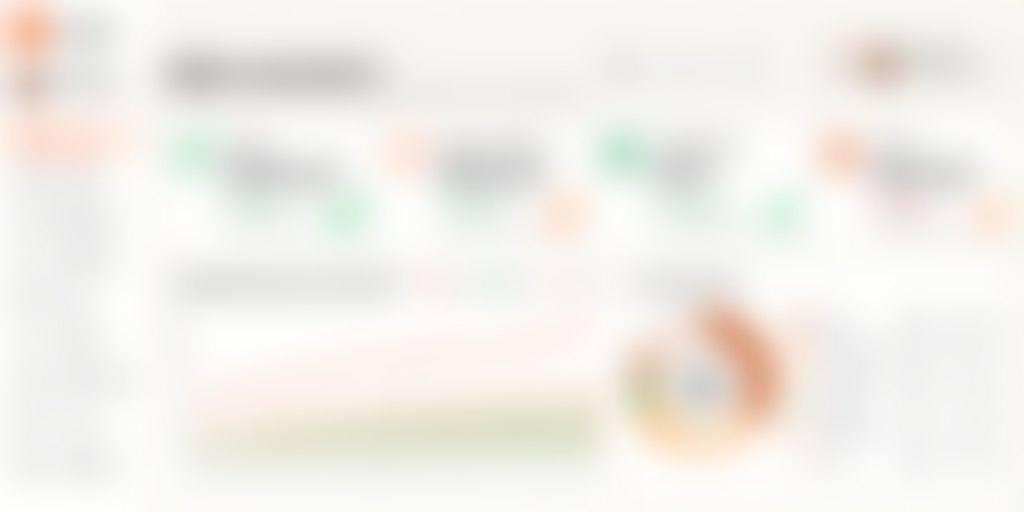
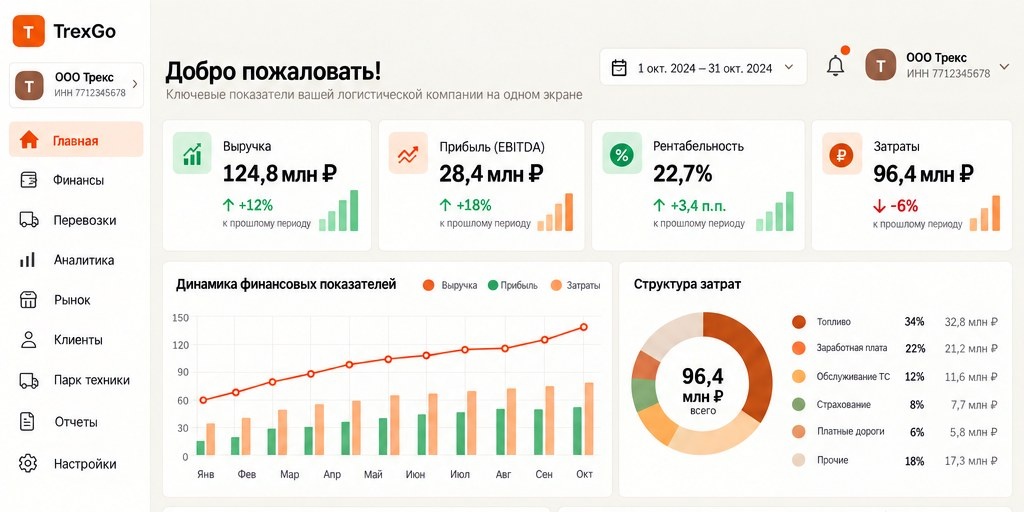
Версия 1: дашборд без размытия, с растворением книзу.
Верхняя половина экрана остаётся резкой и к низу уходит в фон страницы.

diff --git a/growth.html b/growth.html
@@ -15,9 +15,9 @@
 /* Roadmap navigation leads to concrete development scenarios below. */
 .phase-link{display:flex;align-items:center;justify-content:space-between;gap:12px;margin-top:22px;border-top:1px solid #e4e4e9;padding-top:15px;font-size:12px;font-weight:600;line-height:1.6}
 .phase-link>span{color:var(--orange);font-size:21px;line-height:1}.current .phase-link{border-color:#e08c59}.current .phase-link>span{color:#fff}.phase-link:hover{text-decoration:underline;text-underline-offset:4px}
-.detail-section{padding:92px 0;scroll-margin-top:30px}.search-section,.finance-section{background:#fff}.detail-split{display:grid;grid-template-columns:1.05fr 1fr;gap:75px;align-items:start}.scenario-photo{width:100%;height:100%;min-height:420px;object-fit:cover;border-radius:20px;display:block}.tall-split{grid-template-columns:minmax(0,1fr) minmax(0,1fr);gap:40px;align-items:stretch}.tall-split .section-heading{margin-bottom:22px}.tall-split .section-heading h2{font-size:clamp(36px,4.2vw,52px);margin:0}.tall-split .direction-lead{margin-top:0}.tall-split .product-stage{height:100%;align-items:stretch}.tall-split .cabinet-mock{display:flex;flex-direction:column}.tall-split .cabinet-body{flex:1}.scenario-frame{position:relative;min-height:100%;border-radius:20px;overflow:hidden}.scenario-frame .scenario-photo{position:absolute;inset:0;width:100%;height:100%;min-height:0;object-fit:cover;object-position:center}.scenario-frame .scenario-photo.desk{object-position:68% center}.card-grid.stack{grid-template-columns:1fr;margin-top:0}#rn .direction-copy h2{font-size:clamp(36px,4.2vw,52px);margin:0}.dash-photo{display:block;width:100%;height:auto;margin-top:36px;border-radius:22px}.dash-clip{position:relative;margin-top:40px;max-height:360px;overflow:hidden;border-radius:22px 22px 0 0}.dash-clip:after{content:"";position:absolute;left:0;right:0;bottom:0;height:110px;background:linear-gradient(transparent,#f5f5f7)}.dash{background:#fff;border:1px solid #e1e1e7;border-radius:22px;padding:22px 22px 28px}.dash-head{display:flex;justify-content:space-between;gap:16px;align-items:baseline;margin-bottom:18px}.dash-head b{font-size:18px}.dash-head span{font-size:12px;color:#8b8b93}.dash-kpis{display:grid;grid-template-columns:repeat(4,minmax(0,1fr));gap:12px}.dash-kpis article{border:1px solid var(--line);border-radius:14px;padding:14px}.dash-kpis span{display:block;font-size:12px;color:#8b8b93}.dash-kpis strong{display:block;margin:8px 0;font-size:22px;letter-spacing:-.03em}.dash-bar{height:8px;border-radius:8px;background:#e6eef8;overflow:hidden}.dash-bar i{display:block;height:100%;background:var(--orange)}.dash-chart{margin-top:18px;border:1px solid var(--line);border-radius:14px;padding:16px}.dash-chart p{font-size:13px;color:#606168;margin-bottom:14px}.dash-cols{display:flex;align-items:flex-end;gap:10px;height:140px}.dash-cols i{flex:1;display:block;border-radius:8px 8px 0 0;background:#d7e2f2}.dash-cols i:nth-child(odd){background:var(--orange)}.dash-table{margin-top:18px;display:grid;gap:8px}.dash-table div{display:grid;grid-template-columns:1.4fr 1fr 1fr;gap:12px;padding:12px 0;border-bottom:1px solid var(--line);font-size:14px}.dash-table span{color:#8b8b93}.product-stage{display:flex;gap:16px;align-items:stretch}.cabinet-mock{flex:1;min-width:0;background:#fff;border:1px solid #e1e1e7;border-radius:18px;overflow:hidden}.cabinet-top{display:flex;align-items:center;gap:6px;padding:12px 14px;border-bottom:1px solid var(--line)}.cabinet-top i{width:8px;height:8px;border-radius:50%;background:#e4e4e9}.cabinet-top b{margin-left:8px;font-size:13px;font-weight:600}.cabinet-body{padding:8px 16px 16px}.cabinet-row{display:flex;justify-content:space-between;gap:12px;padding:12px 0;border-bottom:1px solid var(--line);font-size:13px}.cabinet-row span{color:#8b8b93}.cabinet-row em{font-style:normal;color:var(--orange);font-weight:600}.phone-mock{width:168px;flex:none;background:#202023;border-radius:28px;padding:10px}.phone-screen{background:#fff;border-radius:20px;min-height:300px;padding:18px 14px;display:flex;flex-direction:column}.phone-screen small{font-size:11px;color:#8b8b93}.phone-screen strong{display:block;font-size:16px;margin:8px 0 16px}.phone-screen p{font-size:12px;color:#606168;margin:0 0 8px}.phone-btn{margin-top:auto;background:var(--orange);color:#fff;text-align:center;border-radius:12px;padding:10px 8px;font-size:13px;font-weight:600}.direction-copy>p{font-size:16px;line-height:1.85;color:var(--muted);max-width:620px}.direction-copy>p.direction-lead{font-size:21px;color:var(--ink);line-height:1.65}.direction-copy>p+p{margin-top:24px}.direction-note,.direction-copy>p.direction-note{font-size:12px;color:var(--muted);line-height:1.8;margin-top:24px;max-width:1000px}.source-pool{margin-top:28px;border-top:1px solid var(--line)}.source-pool>div{display:grid;grid-template-columns:170px 1fr;gap:18px;border-bottom:1px solid var(--line);padding:13px 0;align-items:start}.source-pool b{font-size:14px;font-weight:600}.source-pool span{font-size:13px;color:var(--muted);line-height:1.75}.point-list{border:0}.point-list>div{grid-template-columns:44px 1fr;gap:14px;border:0;padding:10px 0;align-items:center}.point-ico{width:44px;height:44px;border-radius:50%;background:#f4eee5;color:var(--orange);display:flex;align-items:center;justify-content:center}.point-ico svg{display:block}.point-list b{display:block}.point-list .point-text span{display:block;margin-top:3px}.process-card{background:var(--warm);border:1px solid #e8e0d6;border-radius:20px;padding:30px}.process-heading{border-bottom:1px solid #dcd1c3;padding-bottom:20px}.process-heading>span{font-size:12px;color:var(--orange)}.process-heading>b{display:block;font-size:22px;font-weight:600;letter-spacing:-.03em;margin-top:8px}.process-steps{list-style:none;margin:0;padding:0}.process-steps>li{display:flex;gap:18px;padding-top:27px}.process-steps>li>span{font-size:12px;color:#ac7952;line-height:29px;flex:none}.process-steps h3{font-size:23px;line-height:1.25}.process-steps p{font-size:15px;line-height:1.85;color:#68625b;margin-top:11px}.planning-context{background:var(--warm);border-radius:12px;padding:21px 23px;margin-top:27px}.planning-context small{font-size:12px;color:#9a6e49}.planning-context p{font-size:15px;line-height:1.85;margin-top:10px}.finance-intro{font-size:21px;line-height:1.7;max-width:920px}.finance-directions{display:grid;grid-template-columns:repeat(3,minmax(0,1fr));gap:23px;margin-top:35px}.finance-directions article{display:flex;flex-direction:column;min-width:0;background:#f7f5f0;border:1px solid #e7e2d9;border-radius:18px;padding:29px}.finance-stage{font-size:12px;color:#99663e}.finance-directions h3{font-size:31px;line-height:1.15;margin:22px 0}.finance-directions p{font-size:16px;line-height:1.8;color:var(--muted);margin-bottom:25px}.finance-outcome{font-size:14px;color:#80634d;line-height:1.8;border-top:1px solid #dfd6c9;padding-top:17px;margin-top:auto}
+.detail-section{padding:92px 0;scroll-margin-top:30px}.search-section,.finance-section{background:#fff}.detail-split{display:grid;grid-template-columns:1.05fr 1fr;gap:75px;align-items:start}.scenario-photo{width:100%;height:100%;min-height:420px;object-fit:cover;border-radius:20px;display:block}.tall-split{grid-template-columns:minmax(0,1fr) minmax(0,1fr);gap:40px;align-items:stretch}.tall-split .section-heading{margin-bottom:22px}.tall-split .section-heading h2{font-size:clamp(36px,4.2vw,52px);margin:0}.tall-split .direction-lead{margin-top:0}.tall-split .product-stage{height:100%;align-items:stretch}.tall-split .cabinet-mock{display:flex;flex-direction:column}.tall-split .cabinet-body{flex:1}.scenario-frame{position:relative;min-height:100%;border-radius:20px;overflow:hidden}.scenario-frame .scenario-photo{position:absolute;inset:0;width:100%;height:100%;min-height:0;object-fit:cover;object-position:center}.scenario-frame .scenario-photo.desk{object-position:68% center}.card-grid.stack{grid-template-columns:1fr;margin-top:0}#rn .direction-copy h2{font-size:clamp(36px,4.2vw,52px);margin:0}.dash-photo{display:block;width:100%;height:auto}.dash-clip{position:relative;margin-top:36px;overflow:hidden;border-radius:22px 22px 0 0}.dash-clip:after{content:"";position:absolute;left:0;right:0;bottom:0;height:46%;background:linear-gradient(transparent,#f5f5f7)}.dash{background:#fff;border:1px solid #e1e1e7;border-radius:22px;padding:22px 22px 28px}.dash-head{display:flex;justify-content:space-between;gap:16px;align-items:baseline;margin-bottom:18px}.dash-head b{font-size:18px}.dash-head span{font-size:12px;color:#8b8b93}.dash-kpis{display:grid;grid-template-columns:repeat(4,minmax(0,1fr));gap:12px}.dash-kpis article{border:1px solid var(--line);border-radius:14px;padding:14px}.dash-kpis span{display:block;font-size:12px;color:#8b8b93}.dash-kpis strong{display:block;margin:8px 0;font-size:22px;letter-spacing:-.03em}.dash-bar{height:8px;border-radius:8px;background:#e6eef8;overflow:hidden}.dash-bar i{display:block;height:100%;background:var(--orange)}.dash-chart{margin-top:18px;border:1px solid var(--line);border-radius:14px;padding:16px}.dash-chart p{font-size:13px;color:#606168;margin-bottom:14px}.dash-cols{display:flex;align-items:flex-end;gap:10px;height:140px}.dash-cols i{flex:1;display:block;border-radius:8px 8px 0 0;background:#d7e2f2}.dash-cols i:nth-child(odd){background:var(--orange)}.dash-table{margin-top:18px;display:grid;gap:8px}.dash-table div{display:grid;grid-template-columns:1.4fr 1fr 1fr;gap:12px;padding:12px 0;border-bottom:1px solid var(--line);font-size:14px}.dash-table span{color:#8b8b93}.product-stage{display:flex;gap:16px;align-items:stretch}.cabinet-mock{flex:1;min-width:0;background:#fff;border:1px solid #e1e1e7;border-radius:18px;overflow:hidden}.cabinet-top{display:flex;align-items:center;gap:6px;padding:12px 14px;border-bottom:1px solid var(--line)}.cabinet-top i{width:8px;height:8px;border-radius:50%;background:#e4e4e9}.cabinet-top b{margin-left:8px;font-size:13px;font-weight:600}.cabinet-body{padding:8px 16px 16px}.cabinet-row{display:flex;justify-content:space-between;gap:12px;padding:12px 0;border-bottom:1px solid var(--line);font-size:13px}.cabinet-row span{color:#8b8b93}.cabinet-row em{font-style:normal;color:var(--orange);font-weight:600}.phone-mock{width:168px;flex:none;background:#202023;border-radius:28px;padding:10px}.phone-screen{background:#fff;border-radius:20px;min-height:300px;padding:18px 14px;display:flex;flex-direction:column}.phone-screen small{font-size:11px;color:#8b8b93}.phone-screen strong{display:block;font-size:16px;margin:8px 0 16px}.phone-screen p{font-size:12px;color:#606168;margin:0 0 8px}.phone-btn{margin-top:auto;background:var(--orange);color:#fff;text-align:center;border-radius:12px;padding:10px 8px;font-size:13px;font-weight:600}.direction-copy>p{font-size:16px;line-height:1.85;color:var(--muted);max-width:620px}.direction-copy>p.direction-lead{font-size:21px;color:var(--ink);line-height:1.65}.direction-copy>p+p{margin-top:24px}.direction-note,.direction-copy>p.direction-note{font-size:12px;color:var(--muted);line-height:1.8;margin-top:24px;max-width:1000px}.source-pool{margin-top:28px;border-top:1px solid var(--line)}.source-pool>div{display:grid;grid-template-columns:170px 1fr;gap:18px;border-bottom:1px solid var(--line);padding:13px 0;align-items:start}.source-pool b{font-size:14px;font-weight:600}.source-pool span{font-size:13px;color:var(--muted);line-height:1.75}.point-list{border:0}.point-list>div{grid-template-columns:44px 1fr;gap:14px;border:0;padding:10px 0;align-items:center}.point-ico{width:44px;height:44px;border-radius:50%;background:#f4eee5;color:var(--orange);display:flex;align-items:center;justify-content:center}.point-ico svg{display:block}.point-list b{display:block}.point-list .point-text span{display:block;margin-top:3px}.process-card{background:var(--warm);border:1px solid #e8e0d6;border-radius:20px;padding:30px}.process-heading{border-bottom:1px solid #dcd1c3;padding-bottom:20px}.process-heading>span{font-size:12px;color:var(--orange)}.process-heading>b{display:block;font-size:22px;font-weight:600;letter-spacing:-.03em;margin-top:8px}.process-steps{list-style:none;margin:0;padding:0}.process-steps>li{display:flex;gap:18px;padding-top:27px}.process-steps>li>span{font-size:12px;color:#ac7952;line-height:29px;flex:none}.process-steps h3{font-size:23px;line-height:1.25}.process-steps p{font-size:15px;line-height:1.85;color:#68625b;margin-top:11px}.planning-context{background:var(--warm);border-radius:12px;padding:21px 23px;margin-top:27px}.planning-context small{font-size:12px;color:#9a6e49}.planning-context p{font-size:15px;line-height:1.85;margin-top:10px}.finance-intro{font-size:21px;line-height:1.7;max-width:920px}.finance-directions{display:grid;grid-template-columns:repeat(3,minmax(0,1fr));gap:23px;margin-top:35px}.finance-directions article{display:flex;flex-direction:column;min-width:0;background:#f7f5f0;border:1px solid #e7e2d9;border-radius:18px;padding:29px}.finance-stage{font-size:12px;color:#99663e}.finance-directions h3{font-size:31px;line-height:1.15;margin:22px 0}.finance-directions p{font-size:16px;line-height:1.8;color:var(--muted);margin-bottom:25px}.finance-outcome{font-size:14px;color:#80634d;line-height:1.8;border-top:1px solid #dfd6c9;padding-top:17px;margin-top:auto}
 @media(max-width:1150px){.detail-split{gap:40px}.source-pool>div{grid-template-columns:140px 1fr;gap:15px}.finance-directions{gap:16px}.finance-directions article{padding:23px}.finance-directions h3{font-size:28px}.process-card{padding:25px}}
-@media(max-width:760px){.detail-section{padding:66px 0}.detail-split,.tall-split{grid-template-columns:1fr;gap:30px}.scenario-frame{min-height:320px;height:320px}.product-stage{flex-direction:column;align-items:center}.cabinet-mock{width:100%}.phone-mock{width:200px}.dash-clip{max-height:280px}.dash-kpis{grid-template-columns:1fr 1fr}.dash-head{display:block}.dash-table div{grid-template-columns:1fr}.point-list>div{grid-template-columns:44px 1fr}}}.direction-copy>p.direction-lead,.finance-intro{font-size:18px;line-height:1.75}.direction-copy>p{font-size:15px}.direction-copy>p+p{margin-top:20px}.source-pool{margin-top:24px}.source-pool>div{grid-template-columns:1fr;gap:5px;padding:13px 0}.source-pool.point-list>div{display:grid;grid-template-columns:44px minmax(0,1fr);gap:14px;align-items:flex-start;border:0;padding:10px 0}.point-list .point-text{min-width:0}.point-list .point-text b,.point-list .point-text span{display:block}.point-list .point-text span{margin-top:3px}.source-pool span{font-size:12px}.source-pool b{font-size:14px}.direction-note,.direction-copy>p.direction-note{font-size:11px;line-height:1.85;margin-top:21px}.process-card{padding:24px;border-radius:17px}.process-heading>b{font-size:21px}.process-steps h3{font-size:22px}.process-steps p{font-size:14px}.process-steps>li{gap:15px;padding-top:23px}.planning-context{padding:20px}.planning-context p{font-size:14px}.finance-directions{grid-template-columns:1fr;gap:17px;margin-top:27px}.finance-directions article{padding:26px}.finance-directions h3{font-size:29px;margin:20px 0}.finance-directions h3 br{display:none}.finance-directions p{font-size:15px;margin-bottom:20px}.finance-outcome{font-size:13px}.phase-link{font-size:13px;margin-top:20px;padding-top:14px}}
+@media(max-width:760px){.detail-section{padding:66px 0}.detail-split,.tall-split{grid-template-columns:1fr;gap:30px}.scenario-frame{min-height:320px;height:320px}.product-stage{flex-direction:column;align-items:center}.cabinet-mock{width:100%}.phone-mock{width:200px}.dash-kpis{grid-template-columns:1fr 1fr}.dash-head{display:block}.dash-table div{grid-template-columns:1fr}.point-list>div{grid-template-columns:44px 1fr}}}.direction-copy>p.direction-lead,.finance-intro{font-size:18px;line-height:1.75}.direction-copy>p{font-size:15px}.direction-copy>p+p{margin-top:20px}.source-pool{margin-top:24px}.source-pool>div{grid-template-columns:1fr;gap:5px;padding:13px 0}.source-pool.point-list>div{display:grid;grid-template-columns:44px minmax(0,1fr);gap:14px;align-items:flex-start;border:0;padding:10px 0}.point-list .point-text{min-width:0}.point-list .point-text b,.point-list .point-text span{display:block}.point-list .point-text span{margin-top:3px}.source-pool span{font-size:12px}.source-pool b{font-size:14px}.direction-note,.direction-copy>p.direction-note{font-size:11px;line-height:1.85;margin-top:21px}.process-card{padding:24px;border-radius:17px}.process-heading>b{font-size:21px}.process-steps h3{font-size:22px}.process-steps p{font-size:14px}.process-steps>li{gap:15px;padding-top:23px}.planning-context{padding:20px}.planning-context p{font-size:14px}.finance-directions{grid-template-columns:1fr;gap:17px;margin-top:27px}.finance-directions article{padding:26px}.finance-directions h3{font-size:29px;margin:20px 0}.finance-directions h3 br{display:none}.finance-directions p{font-size:15px;margin-bottom:20px}.finance-outcome{font-size:13px}.phase-link{font-size:13px;margin-top:20px;padding-top:14px}}
 @media print{.detail-section{padding:0;break-before:page;break-inside:avoid}.detail-split{grid-template-columns:1fr 1fr;gap:12mm}.direction-copy>p.direction-lead,.finance-intro{font-size:13pt;line-height:1.6}.direction-copy>p{font-size:10pt;line-height:1.7}.direction-copy>p+p{margin-top:4mm}.direction-note,.direction-copy>p.direction-note{font-size:8pt;margin-top:4mm}.source-pool{margin-top:5mm}.source-pool>div{grid-template-columns:35mm 1fr;gap:4mm;padding:3mm 0}.source-pool b,.source-pool span{font-size:9pt}.process-card{padding:6mm}.process-heading>b{font-size:16pt}.process-heading>span{font-size:8pt}.process-steps h3{font-size:15pt}.process-steps p{font-size:10pt;line-height:1.6;margin-top:2mm}.process-steps>li{padding-top:5mm;gap:4mm}.planning-context{margin-top:5mm;padding:5mm}.planning-context p{font-size:10pt}.finance-directions{grid-template-columns:repeat(3,minmax(0,1fr));gap:5mm;margin-top:7mm}.finance-directions article{padding:6mm}.finance-directions h3{font-size:19pt;margin:5mm 0}.finance-directions p{font-size:10pt;line-height:1.7}.finance-stage{font-size:8pt}.finance-outcome{font-size:9pt;padding-top:4mm}}
 :root{--bg:#f5f5f7;--ink:#202023;--muted:#606168;--orange:#b94609;--line:#dddde3;--warm:#f4eee5}
 *{box-sizing:border-box}html{scroll-behavior:smooth;scroll-padding-top:30px}body{margin:0;background:var(--bg);color:var(--ink);font-family:Golos,Arial,sans-serif;line-height:1.6}a{color:inherit;text-decoration:none}button{font:inherit;cursor:pointer}h1,h2,h3,p{margin:0}h1,h2,h3{font-weight:600;letter-spacing:-.04em;line-height:1.1;text-wrap:balance}.shell{width:min(1280px,calc(100% - 80px));margin-inline:auto}a:focus-visible,button:focus-visible,summary:focus-visible{outline:3px solid #2b7d9c;outline-offset:5px}.skip{position:fixed;left:15px;top:-100px;background:#fff;z-index:99;padding:15px}.skip:focus{top:10px}#main{scroll-margin-top:75px}
@@ -266,7 +266,7 @@ OTHER DEALINGS IN THE FONT SOFTWARE.
   <div class="shell">
     <div class="section-heading"><p class="eyebrow">Финансовая аналитика</p><h2 id="analytics-title">Финансовая аналитика<br> для логистических компаний</h2></div>
     <p class="finance-intro">Даём подробную финансовую аналитику, анализ рынка и другие данные, которые нужны логистической компании. По ним можно быстро и эффективно управлять работой.</p>
-    <img class="dash-photo" src="img/growth-dash.jpg" alt="Пример финансового дашборда" width="1024" height="512">
+    <div class="dash-clip"><img class="dash-photo" src="img/growth-dash.jpg?v=20261020" alt="Пример финансового дашборда" width="1024" height="512"></div>
   </div>
 </section>
 
